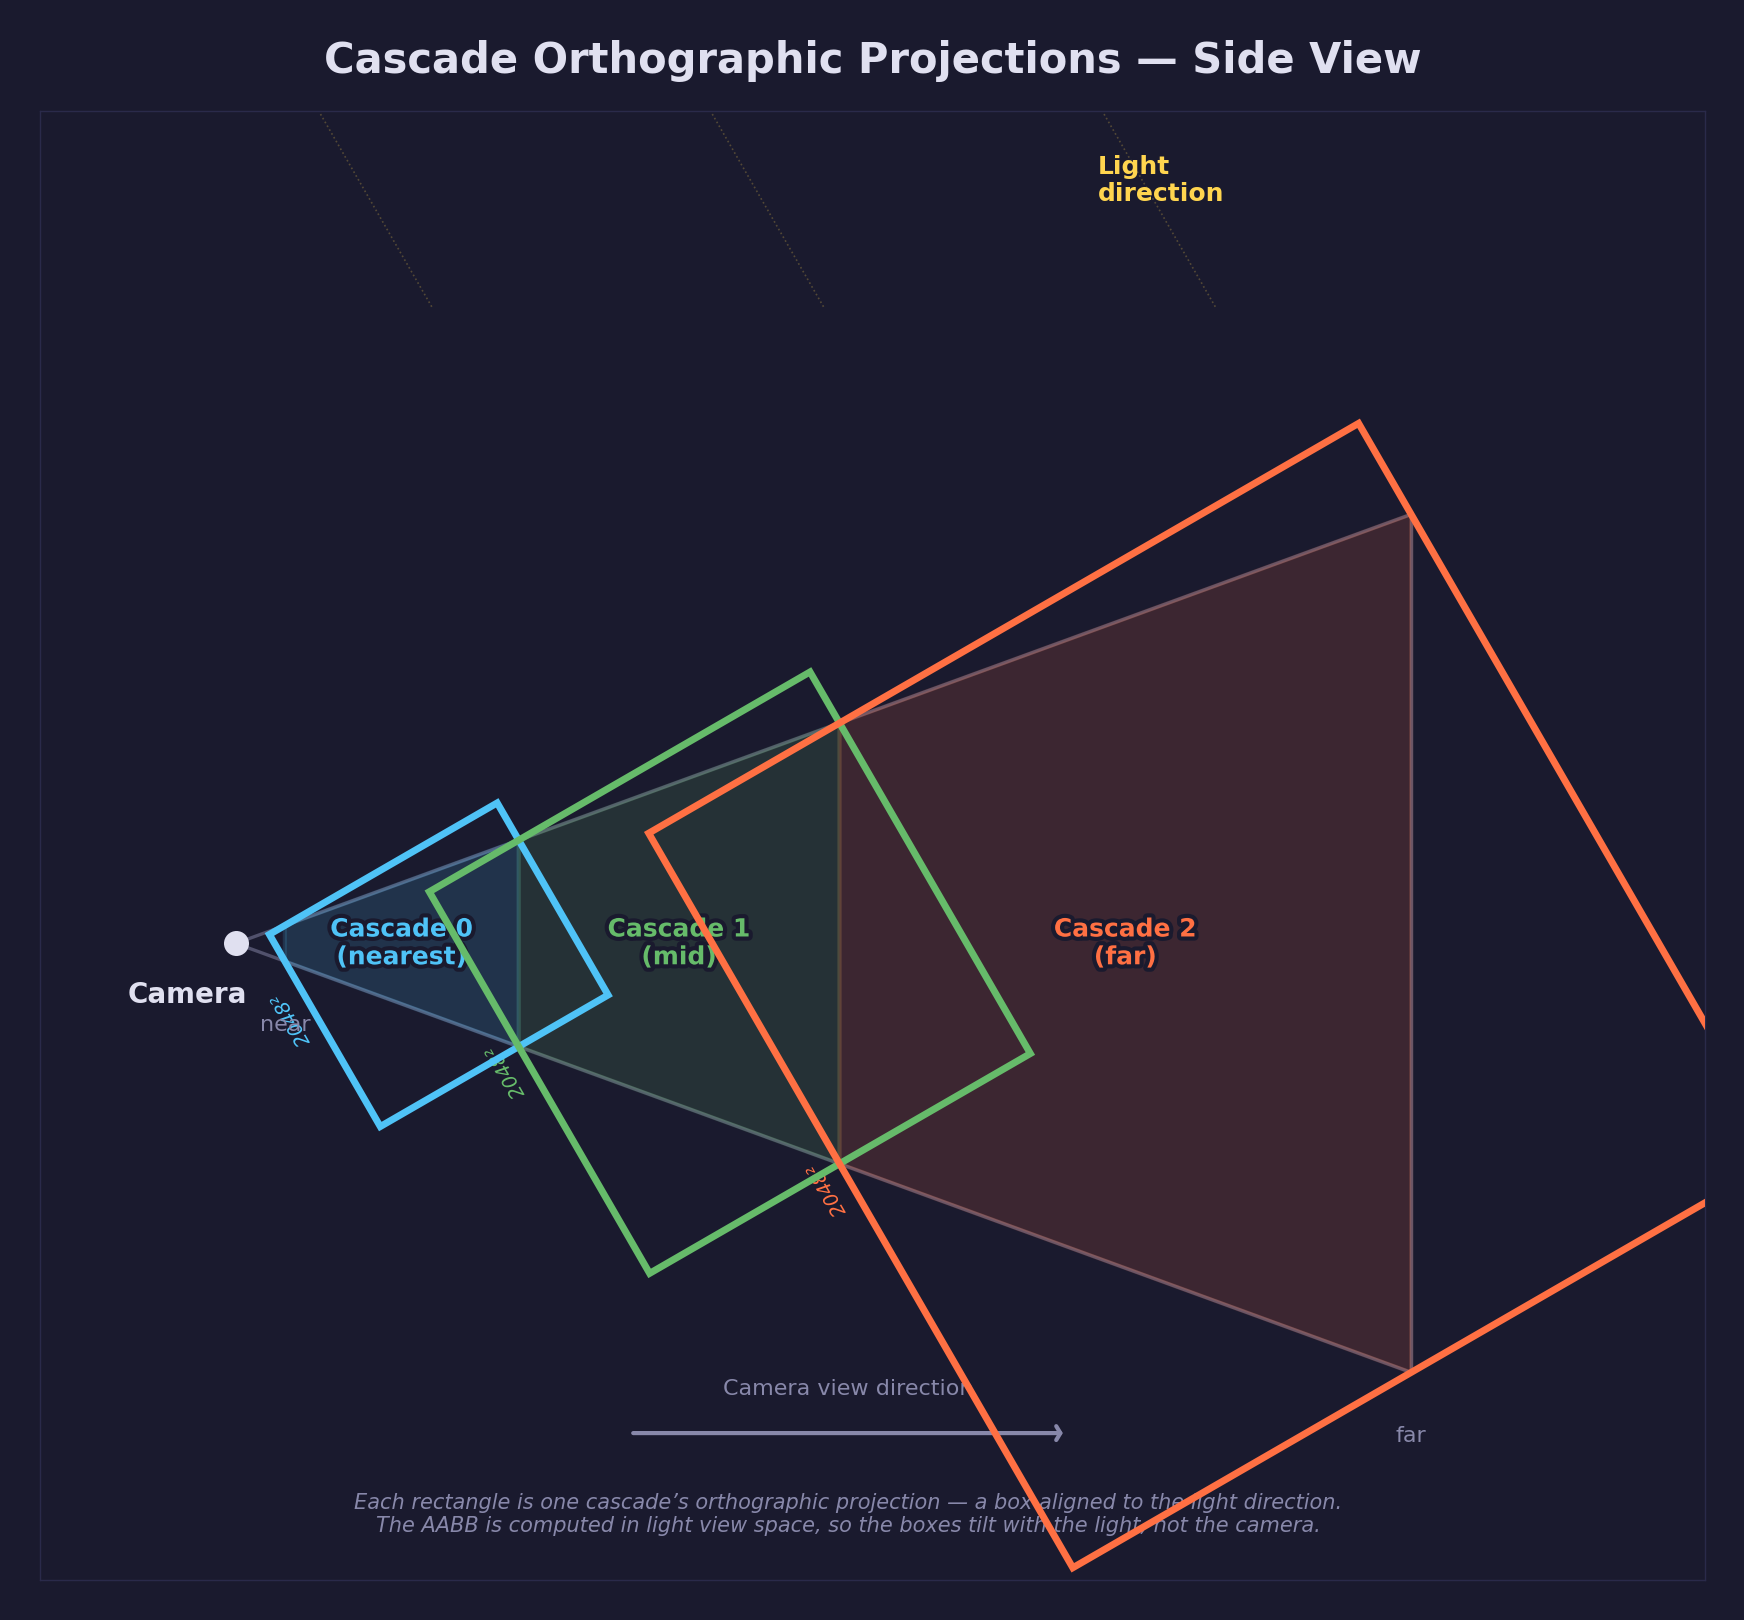
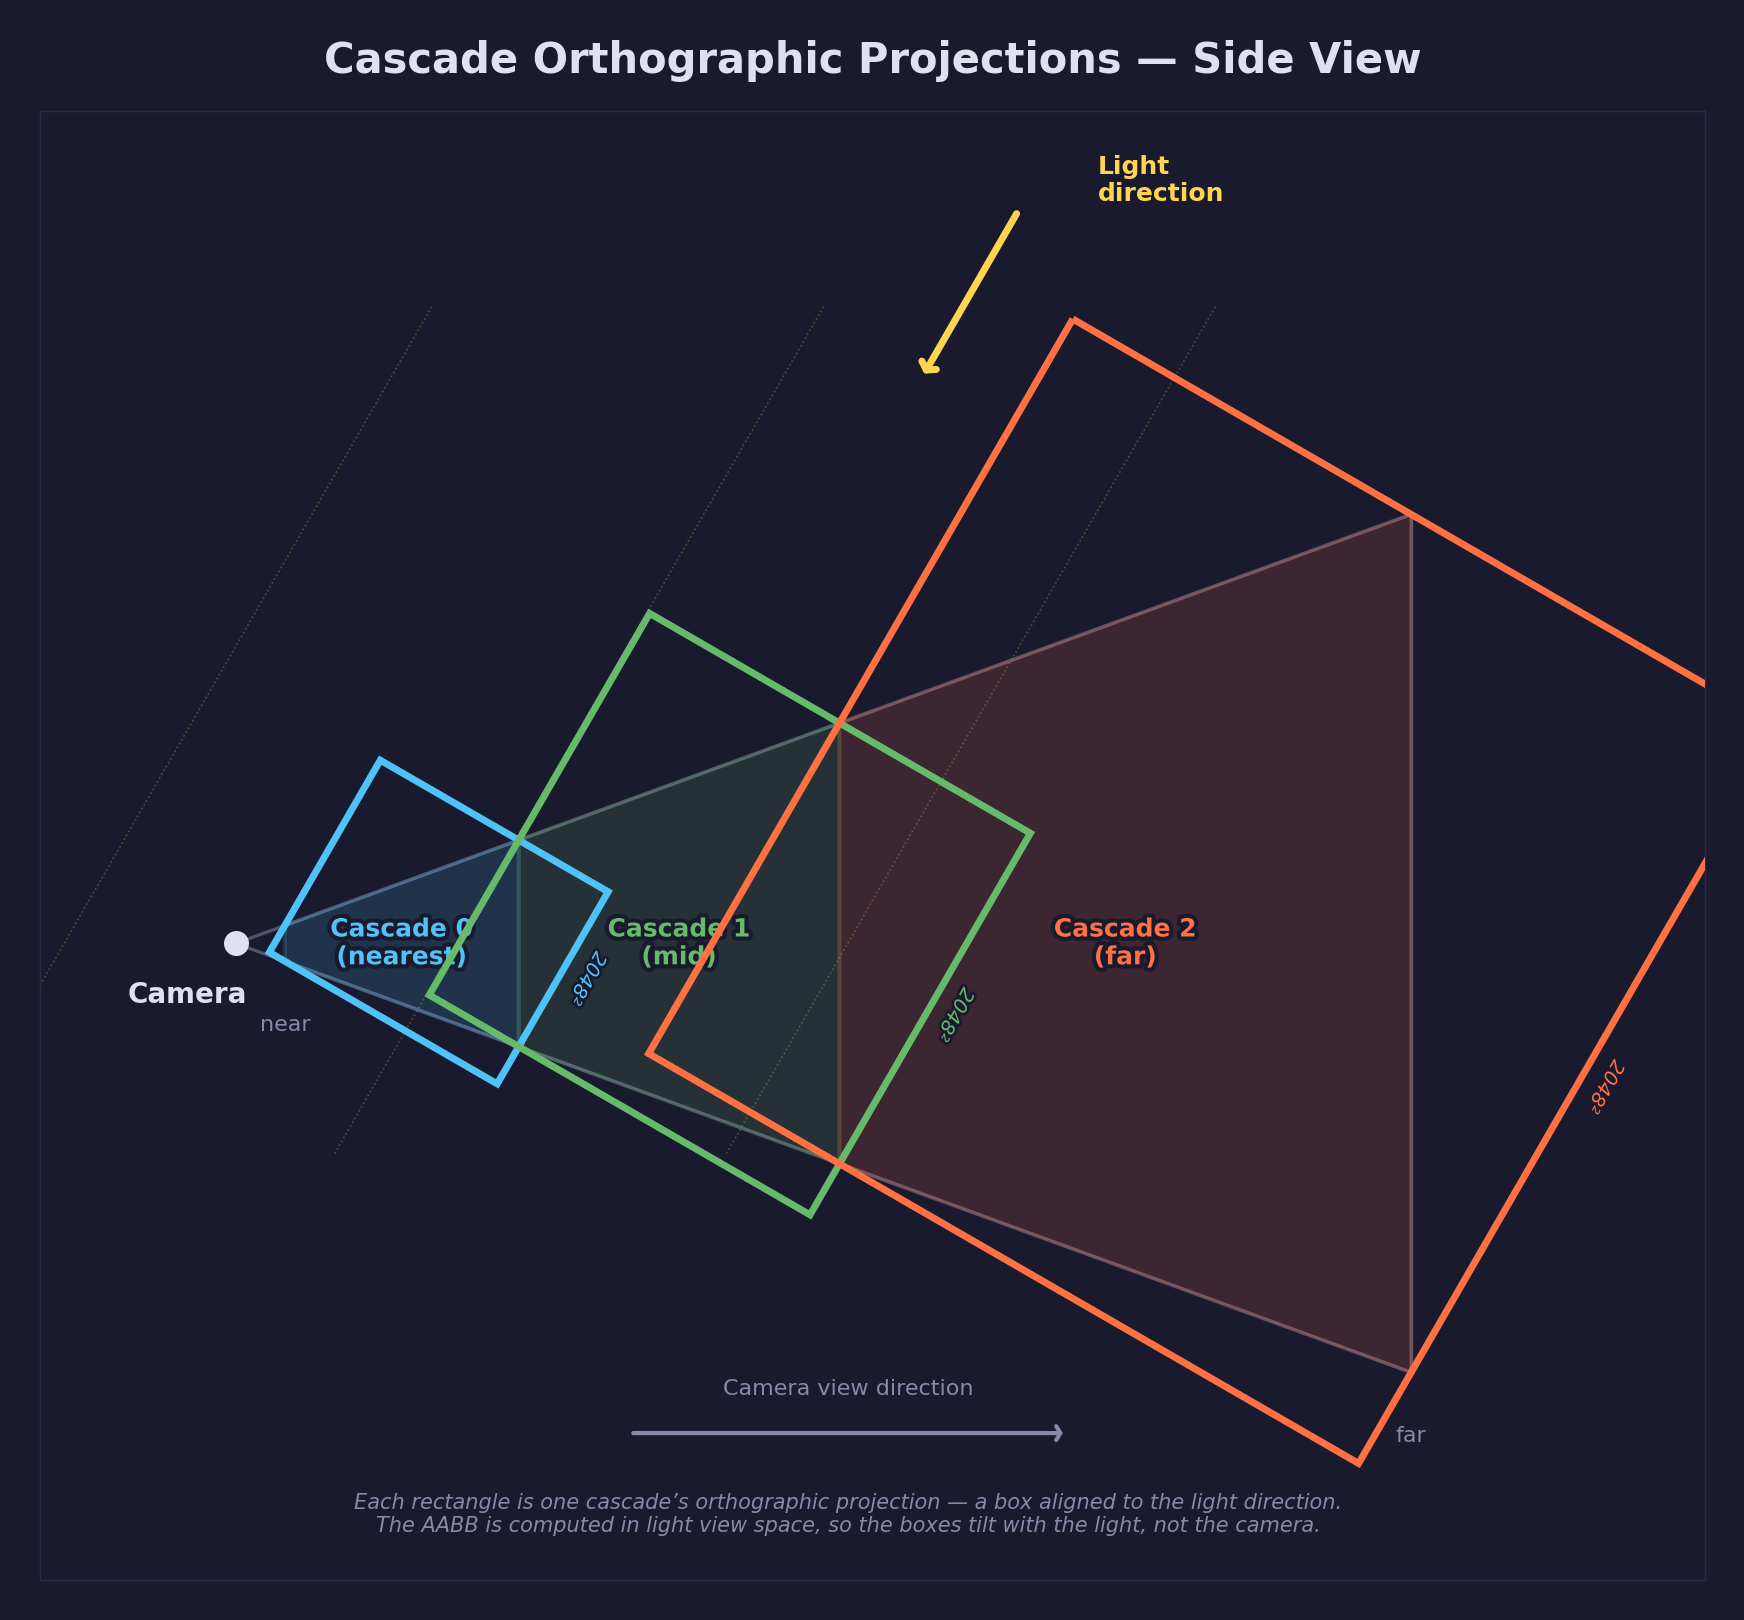
Address PR feedback for Lesson 15: named constants, comments, diagram fix
- Replace magic numbers (1e30f, 50.0f, 0.3f, 0.5f) with named constants
- Add "why" comments on depth state, struct fields, and pipeline formats
- Fix light angle in cascade diagram (120° → 240°) so light travels down-left
- Add Key API calls and Correct order sections to SKILL.md

diff --git a/lessons/gpu/15-cascaded-shadow-maps/main.c b/lessons/gpu/15-cascaded-shadow-maps/main.c
@@ -211,6 +211,8 @@
 #define BOX_GROUND_Y 0.5f
 #define BOX_STACK_Y 1.5f
 #define BOX_RING_RADIUS 5.0f
+#define BOX_GROUND_ROT_OFFSET 0.3f /* per-box rotation increment (radians) */
+#define BOX_STACK_ROT_OFFSET 0.5f  /* extra rotation for stacked boxes (radians) */
 
 /* ── Model paths ─────────────────────────────────────────────────────── */
 
@@ -256,6 +258,13 @@
 #define MODEL_AMBIENT_STR 0.15f
 #define MODEL_SPECULAR_STR 0.5f
 
+/* ── Shadow / light-VP computation constants ────────────────────────── */
+
+#define AABB_INIT_MIN  1e30f   /* large sentinel for AABB min initialization */
+#define AABB_INIT_MAX -1e30f   /* large negative sentinel for AABB max initialization */
+#define LIGHT_DISTANCE 50.0f   /* how far back to place the light from cascade center */
+#define SHADOW_Z_PADDING 50.0f /* extra Z range to capture casters behind the frustum */
+
 /* ── Uniform data ────────────────────────────────────────────────────── */
 
 /* Shadow vertex: just the light's MVP (64 bytes). */
@@ -279,15 +288,17 @@ typedef struct SceneFragUniforms {
   float base_color[4];
   float light_dir[4];
   float eye_pos[4];
-  float cascade_splits[4]; /* x=c0, y=c1, z=c2, w=unused */
+  /* View-space split depths for selecting which cascade to sample.
+   * x=cascade 0/1 boundary, y=1/2, z=2/far, w=unused. */
+  float cascade_splits[4];
   Uint32 has_texture;
-  float shininess;
-  float ambient;
-  float specular_str;
-  float shadow_texel_size;
-  float shadow_bias;
-  float _pad0;
-  float _pad1;
+  float shininess;        /* Blinn-Phong specular exponent (higher = tighter) */
+  float ambient;          /* ambient light strength [0..1] */
+  float specular_str;     /* specular highlight intensity [0..1] */
+  float shadow_texel_size; /* 1.0 / shadow_map_resolution — PCF offset step */
+  float shadow_bias;       /* depth bias to prevent shadow acne */
+  float _pad0;             /* explicit padding to 16-byte alignment */
+  float _pad1;             /* explicit padding to 16-byte alignment */
 } SceneFragUniforms;
 
 /* Grid vertex: VP matrix (64 bytes). */
@@ -301,20 +312,22 @@ typedef struct GridFragUniforms {
   float bg_color[4];
   float light_dir[4];
   float eye_pos[4];
+  /* Same cascade split depths as SceneFragUniforms */
   float cascade_splits[4];
-  float grid_spacing;
-  float line_width;
-  float fade_distance;
-  float ambient;
-  float shininess;
-  float specular_str;
-  float shadow_texel_size;
-  float shadow_bias;
+  float grid_spacing;       /* world-space distance between grid lines */
+  float line_width;         /* grid line thickness in world units */
+  float fade_distance;      /* distance at which grid fades to background */
+  float ambient;            /* ambient light strength [0..1] */
+  float shininess;          /* Blinn-Phong specular exponent */
+  float specular_str;       /* specular highlight intensity [0..1] */
+  float shadow_texel_size;  /* 1.0 / shadow_map_resolution — PCF offset step */
+  float shadow_bias;        /* depth bias to prevent shadow acne */
 } GridFragUniforms;
 
 /* Debug quad vertex: NDC bounds (16 bytes). */
 typedef struct DebugVertUniforms {
-  float quad_bounds[4]; /* left, bottom, right, top */
+  /* NDC rectangle for the debug overlay: left, bottom, right, top */
+  float quad_bounds[4];
 } DebugVertUniforms;
 
 /* ── GPU-side scene data ─────────────────────────────────────────────── */
@@ -984,7 +997,7 @@ static void generate_box_placements(app_state *state) {
     float angle = (float)i * (2.0f * FORGE_PI / (float)BOX_GROUND_COUNT);
     state->box_placements[idx].position =
         vec3_create(cosf(angle) * BOX_RING_RADIUS, BOX_GROUND_Y, sinf(angle) * BOX_RING_RADIUS);
-    state->box_placements[idx].y_rotation = angle + 0.3f * (float)i;
+    state->box_placements[idx].y_rotation = angle + BOX_GROUND_ROT_OFFSET * (float)i;
     idx++;
   }
 
@@ -996,7 +1009,7 @@ static void generate_box_placements(app_state *state) {
         BOX_STACK_Y,
         state->box_placements[base].position.z
     );
-    state->box_placements[idx].y_rotation = state->box_placements[base].y_rotation + 0.5f;
+    state->box_placements[idx].y_rotation = state->box_placements[base].y_rotation + BOX_STACK_ROT_OFFSET;
     idx++;
   }
 
@@ -1123,13 +1136,13 @@ static mat4 compute_cascade_light_vp(
   /* Build a light view matrix looking from above the center toward center.
    * The light direction points TOWARD the light, so we negate it to get
    * the direction the light travels (from light toward scene). */
-  vec3 light_pos = vec3_add(center, vec3_scale(light_dir, 50.0f));
+  vec3 light_pos = vec3_add(center, vec3_scale(light_dir, LIGHT_DISTANCE));
   mat4 light_view = mat4_look_at(light_pos, center, vec3_create(0.0f, 1.0f, 0.0f));
 
   /* Transform cascade corners to light view space and find AABB */
-  float min_x = 1e30f, max_x = -1e30f;
-  float min_y = 1e30f, max_y = -1e30f;
-  float min_z = 1e30f, max_z = -1e30f;
+  float min_x = AABB_INIT_MIN, max_x = AABB_INIT_MAX;
+  float min_y = AABB_INIT_MIN, max_y = AABB_INIT_MAX;
+  float min_z = AABB_INIT_MIN, max_z = AABB_INIT_MAX;
   {
     int i;
     for (i = 0; i < 8; i++) {
@@ -1155,7 +1168,7 @@ static mat4 compute_cascade_light_vp(
   /* Expand the Z range to capture shadow casters behind the frustum.
    * Without this, objects outside the cascade slice but between the
    * light and the frustum would not cast shadows into the frustum. */
-  min_z -= 50.0f;
+  min_z -= SHADOW_Z_PADDING;
 
   /* Build orthographic projection from the tight AABB */
   mat4 light_proj = mat4_orthographic(min_x, max_x, min_y, max_y, -max_z, -min_z);
@@ -1769,16 +1782,22 @@ SDL_AppResult SDL_AppInit(void **appstate, int argc, char *argv[]) {
     scene_pipe.rasterizer_state.cull_mode = SDL_GPU_CULLMODE_BACK;
     scene_pipe.rasterizer_state.front_face = SDL_GPU_FRONTFACE_COUNTER_CLOCKWISE;
 
+    /* Depth testing ensures correct front-to-back ordering in the 3D scene.
+     * LESS_OR_EQUAL allows coplanar surfaces (e.g. the grid on the ground
+     * plane) to render without z-fighting. */
     scene_pipe.depth_stencil_state.enable_depth_test = true;
     scene_pipe.depth_stencil_state.enable_depth_write = true;
     scene_pipe.depth_stencil_state.compare_op = SDL_GPU_COMPAREOP_LESS_OR_EQUAL;
 
     SDL_zero(scene_color);
+    /* Color format must match the swapchain to avoid conversion overhead. */
     scene_color.format = swapchain_format;
 
     scene_pipe.target_info.color_target_descriptions = &scene_color;
     scene_pipe.target_info.num_color_targets = 1;
     scene_pipe.target_info.has_depth_stencil_target = true;
+    /* D32_FLOAT gives full 32-bit precision for depth — important for
+     * shadow map comparison and large view distances. */
     scene_pipe.target_info.depth_stencil_format = DEPTH_FORMAT;
 
     state->scene_pipeline = SDL_CreateGPUGraphicsPipeline(device, &scene_pipe);

diff --git a/scripts/forge_diagrams.py b/scripts/forge_diagrams.py
@@ -3851,7 +3851,7 @@ def diagram_cascade_ortho_projections():
     # the upper-right and shines toward the lower-left.  We use the direction
     # the light travels (negated): roughly (-1, -1) normalized, but we tilt
     # it to ~60° from horizontal so the angle is visually clear.
-    light_angle = np.radians(120)  # 120° from +X = upper-left origin
+    light_angle = np.radians(240)  # 240° from +X = lower-left direction
     light_dx = np.cos(light_angle)  # light travel direction x
     light_dy = np.sin(light_angle)  # light travel direction y
 

diff --git a/.claude/skills/cascaded-shadow-maps/SKILL.md b/.claude/skills/cascaded-shadow-maps/SKILL.md
@@ -12,6 +12,26 @@ to an SDL3 GPU application.  Based on Lesson 15.
 - Single shadow maps lack resolution for your scene
 - You want soft shadow edges without expensive techniques
 
+## Key API calls
+
+- `SDL_CreateGPUTexture` — shadow map textures (D32_FLOAT, DEPTH_STENCIL_TARGET | SAMPLER)
+- `SDL_CreateGPUSampler` — NEAREST filter, CLAMP_TO_EDGE for shadow map sampling
+- `SDL_CreateGPUGraphicsPipeline` — shadow pipeline (depth-only, front-face cull, depth bias)
+- `SDL_BeginGPURenderPass` / `SDL_EndGPURenderPass` — one pass per cascade (depth only)
+- `SDL_BindGPUFragmentSamplers` — bind shadow maps + sampler for scene pass
+- `SDL_PushGPUVertexUniformData` / `SDL_PushGPUFragmentUniformData` — per-draw uniforms
+
+## Correct order
+
+1. **Create shadow map textures + sampler** (in `SDL_AppInit`)
+2. **Create shadow pipeline** — depth-only, front-face culling, depth bias
+3. **Create scene pipeline** — binds shadow maps as fragment samplers
+4. **Each frame:**
+   a. Compute cascade split depths (logarithmic-linear blend)
+   b. Compute light VP matrix per cascade (frustum corners → light-space AABB)
+   c. **Shadow pass**: render all casters into each cascade's depth map
+   d. **Scene pass**: render with shadow maps bound, fragment shader selects cascade by view-space depth
+
 ## Key concepts
 
 1. **Shadow map textures** need `DEPTH_STENCIL_TARGET | SAMPLER` usage flags
